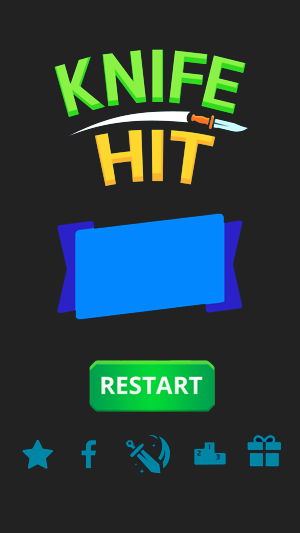
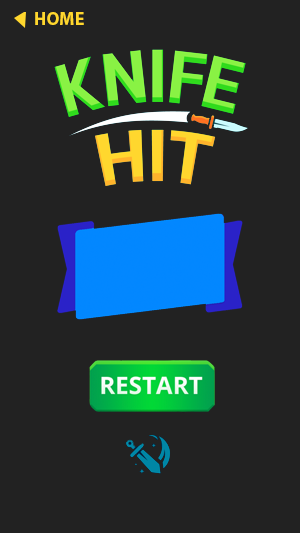
debug

diff --git a/src/index.js b/src/index.js
@@ -24,11 +24,12 @@ const init = async () => {
   const canvas = document.getElementById("main");
   const info = document.getElementById("info");
   const fps = document.getElementById("fps");
-  const [width, height] = resizeCanvas(canvas, 1);
+  const [width, height] = resizeCanvas(canvas);
+  const [worldWidth, worldHeight] = [width / 2, height / 2];
   const gl = canvas.getContext("webgl");
   const batch = createBatch(gl);
-  const cam = createOrthoCamera(width, height, width, height);
-  let entity = await entityFactory(gl, width, height);
+  const cam = createOrthoCamera(worldWidth, worldHeight, width, height);
+  let entity = await entityFactory(gl, worldWidth, worldHeight);
   const gameOption = createGameOption();
   let indexOptionGame = 0;
   let level = 0;
@@ -43,7 +44,7 @@ const init = async () => {
     if (indexOptionGame > 3) {
       indexOptionGame = 0;
     }
-    entity = await entityFactory(gl, width, height);
+    entity = await entityFactory(gl, worldWidth, worldHeight);
     for (
       let index = 0;
       index < gameOption.option[indexOptionGame].goalKnife;
@@ -63,16 +64,19 @@ const init = async () => {
   const statusGame = CheckGameStatus(
     inputHandler,
     gl,
-    width,
-    height,
+    worldWidth,
+    worldHeight,
     setEntity
   );
-  const chooseKnife = selectKnife(inputHandler, width, height, entity);
+  const chooseKnife = selectKnife(
+    inputHandler,
+    worldWidth,
+    worldHeight,
+    entity
+  );
   const shooting = shoottingKnife(inputHandler);
-  const listKnifes = showListKnifes(inputHandler, width, height);
-  if (window.localStorage.getItem("maxStage") === null) {
-    level = 0;
-  } else {
+  const listKnifes = showListKnifes(inputHandler, worldWidth, worldHeight);
+  if (window.localStorage.getItem("maxStage") !== null) {
     level = window.localStorage.getItem("maxStage");
   }
   gl.clearColor(0, 0, 0, 1);
@@ -84,8 +88,8 @@ const init = async () => {
       processState(
         delta,
         entity,
-        width,
-        height,
+        worldWidth,
+        worldHeight,
         shooting,
         statusGame,
         chooseKnife.getIndex(),
@@ -96,8 +100,8 @@ const init = async () => {
       renderEnviroment(
         batch,
         entity,
-        width,
-        height,
+        worldWidth,
+        worldHeight,
         chooseKnife.getIndex(),
         gameOption,
         indexOptionGame
@@ -112,8 +116,8 @@ const init = async () => {
           entity,
           entity.dashboard,
           listKnifes.getStatuslistKnife(),
-          width,
-          height,
+          worldWidth,
+          worldHeight,
           chooseKnife.getIndex()
         );
         info.id = "info-dashboard";
@@ -124,8 +128,8 @@ const init = async () => {
           entity,
           entity.bgGameOver,
           listKnifes.getStatuslistKnife(),
-          width,
-          height
+          worldWidth,
+          worldHeight
         );
         info.id = "info-gameOver";
         info.innerHTML = `   ${shooting.getScore()}

diff --git a/src/game/system/processInput.js b/src/game/system/processInput.js
@@ -62,6 +62,10 @@ export const CheckGameStatus = (inputHandler, gl, width, height, setEntity) => {
         checkGameOver = false;
         score = 0;
       }
+    } else if (x >= 0 && x <= width / 3.5 && y >= 0 && y <= height / 20) {
+      if (!gameStatus && !statuslistKnife) {
+        checkGameOver = false;
+      }
     }
   });
   return {
